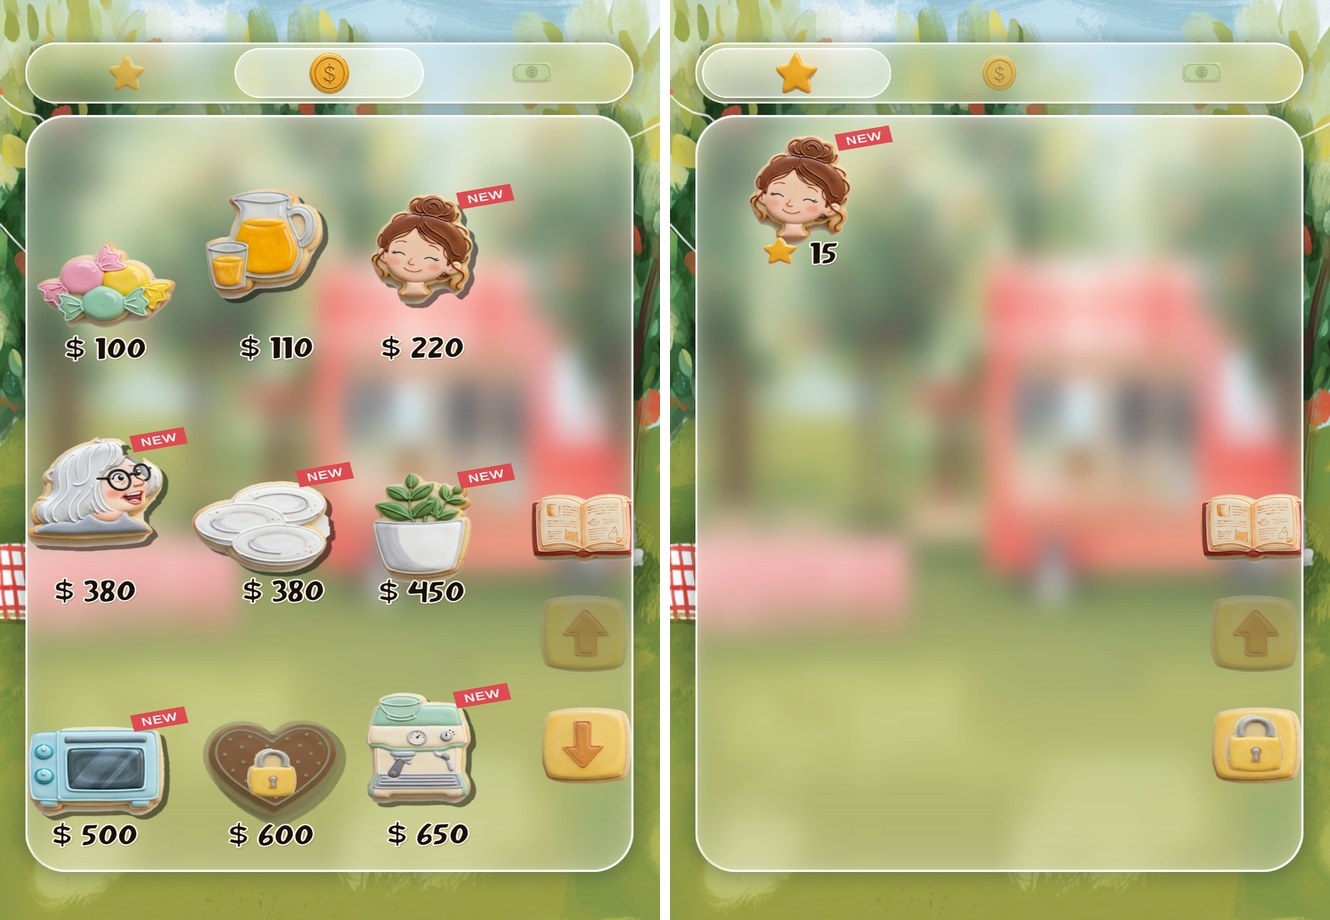
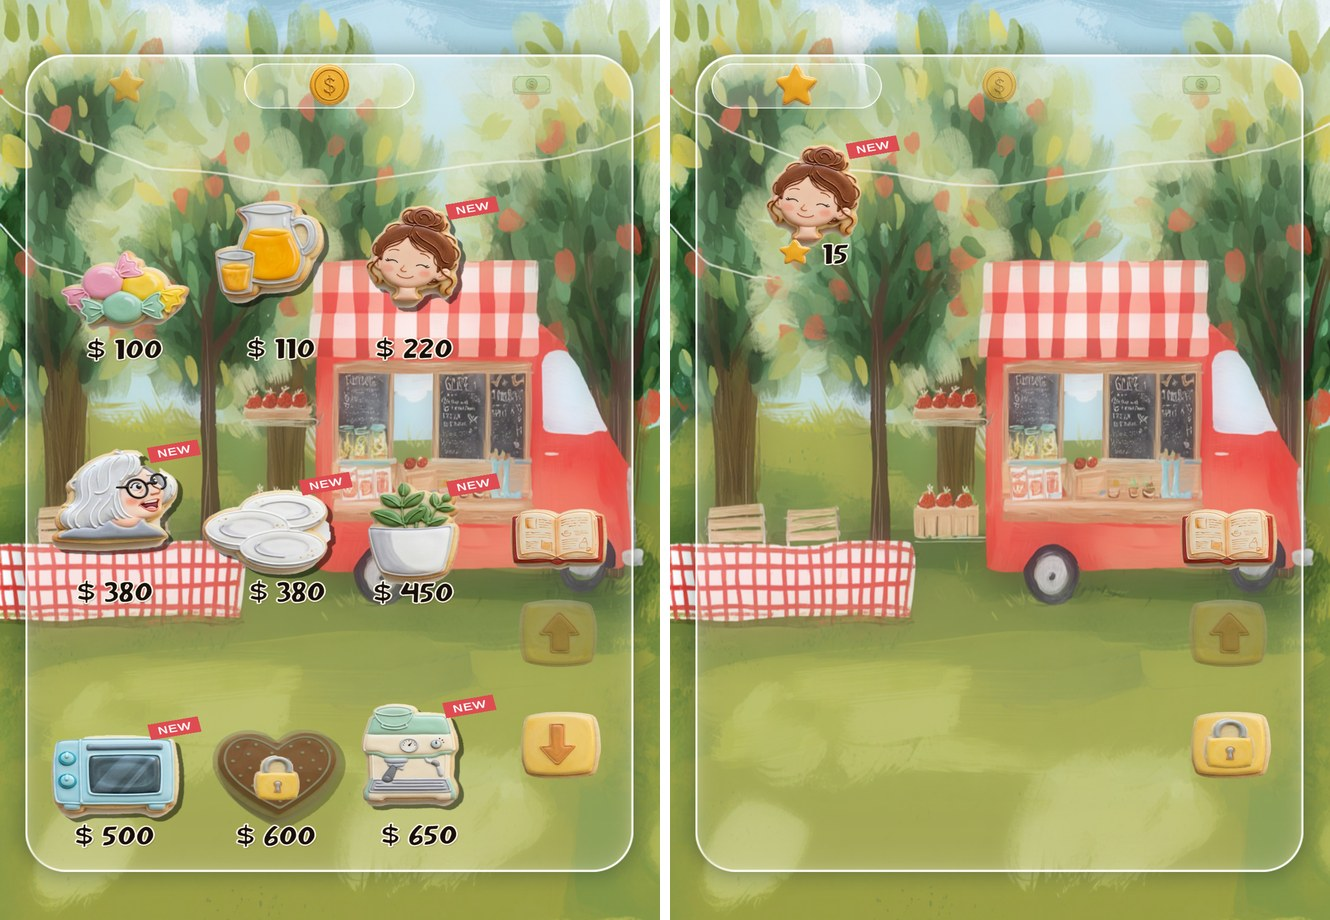
Shop glass: almost clear, one pane with the tabs inside it (no gap, no line), cards and arrows kept clear of the pane's edges (owner, 19 Nov); report

diff --git a/Docs/tools/report_page/index.html b/Docs/tools/report_page/index.html
@@ -74,7 +74,7 @@ h3 small{font-weight:600;color:var(--soft);font-size:13px;margin-left:6px}
 <h2 id="next"><span class="n">1</span>Next</h2>
 <div class="grid">
 <div class="who p1"><h3>You</h3>
-<p><b>Test build 2026.11.19 (1) is in TestFlight.</b> Four things came after it: the glass shop panel, the cake fix, the smaller Daily Treats button and its even dots. Say "build" for (2).</p>
+<p><b>Test build 2026.11.19 (1) is in TestFlight.</b> After it came: the glass shop panel, the cake fix, and the last Daily Treats change (approved). Say "build" for (2).</p>
 <p><b>Q&amp;A:</b> pick a handwriting font; the journal's milestones.</p>
 <p><b>MVP:</b> pick a mixer (three like your photo, cuter).</p>
 </div>
@@ -143,17 +143,17 @@ h3 small{font-weight:600;color:var(--soft);font-size:13px;margin-left:6px}
 <h2 id="current"><span class="n">3</span>Current</h2>
 <p class="sub" style="margin:0 0 8px">Release 1: the look. The first three cards are in the project but came after build (1).</p>
 <div class="card">
-<p style="margin-top:0"><b>Shop panel as liquid glass, rounded.</b> After build (1).</p>
-<figure><img src="shop_glass.jpg" alt="The shop twice. The panel is a rounded pane of frosted glass: the truck and trees behind it are blurred, a bright thin rim runs round it, the cookies and prices sit on it. Above it a long glass pill holds the three tab pictures, with a brighter rounded lens over the open one: the coin on the left picture, the star on the right picture"><figcaption>Left: the coins tab. Right: the stars tab; the lens slides to the tab you tap.</figcaption></figure>
+<p style="margin-top:0"><b>Shop panel: clear glass, one piece with the tabs, margins.</b> After build (1).</p>
+<figure><img src="shop_glass.jpg" alt="The shop twice. One rounded pane of almost clear glass with a thin bright rim: the truck and trees show through it nearly untouched. The three tab pictures sit inside the pane's top with no gap and no line under them; a faint rounded lens marks the open tab (the coin left, the star right). The cookies keep clear of the pane's left edge, and the book and arrows sit inside its right edge"><figcaption>Left: the coins tab. Right: the stars tab; the lens slides to the tab you tap.</figcaption></figure>
 <ul>
-<li>The shop's own background shows through, blurred, under a thin white veil; a bright rim and a soft shadow round the pane.</li>
-<li>The tabs are a glass pill above the pane instead of folder tabs.</li>
+<li><b>Glass:</b> almost fully see-through now; only the rim, a trace of white and a soft shadow say "glass".</li>
+<li><b>One piece:</b> the tabs are inside the same pane, no gap and no line between them and the cards.</li>
+<li><b>Margins:</b> the cards are a little smaller and moved in from the left edge; the book and the arrows are a little smaller and sit inside the right edge.</li>
 </ul>
 <ul class="checks">
-<li><label><input type="checkbox" data-id="cur.glass.good"> Good</label></li>
-<li><label><input type="checkbox" data-id="cur.glass.whiter"> More white in the glass (prices easier to read)</label></li>
-<li><label><input type="checkbox" data-id="cur.glass.clearer"> Less blur, clearer glass</label></li>
-<li><label><input type="checkbox" data-id="cur.glass.change"> Other changes (I will say what)</label></li>
+<li><label><input type="checkbox" data-id="cur.glass2.good"> Good</label></li>
+<li><label><input type="checkbox" data-id="cur.glass2.nolens"> No lens on the open tab</label></li>
+<li><label><input type="checkbox" data-id="cur.glass2.change"> Changes (I will say what)</label></li>
 </ul>
 </div>
 
@@ -171,15 +171,6 @@ h3 small{font-weight:600;color:var(--soft);font-size:13px;margin-left:6px}
 </div>
 
 <div class="card">
-<p style="margin-top:0"><b>Daily Treats: smaller button, even dots.</b> After build (1).</p>
-<figure><img src="treats_square.jpg" alt="Daily Treats three times: day 2 with a smaller Collect button and clear space between it and the bottom dotted line; after Collect with the coin, +50 and a smaller One more treat button; day 4 with the gift. The dotted lines have evenly spaced round dots with one dot exactly in each corner"><figcaption>Day 2; after Collect; day 4.</figcaption></figure>
-<ul>
-<li>Collect and One more treat are smaller and sit higher, clear of the bottom dotted line.</li>
-<li>Every dotted line is redrawn: evenly spaced round dots, one exactly in each corner (two dots overlapped there before).</li>
-</ul>
-</div>
-
-<div class="card">
 <p style="margin-top:0"><b>Day card and cookie book.</b> In build (1).</p>
 <figure><img src="daycard_square.jpg" style="max-height:440px" alt="The map's day card as a square cream doily card: Day 3, three stars, Play and Cancel"><figcaption>The map's day card, square.</figcaption></figure>
 <figure><img src="book_flip.jpg" alt="Six moments of the whole page turning in the red book: page 1 flat, the full page lifting at its right edge with a shadow, half way, page 2 showing under it"><figcaption>The cookie book: the whole page turns, with your sound 4. The book's button is the old one.</figcaption></figure>
@@ -193,7 +184,7 @@ h3 small{font-weight:600;color:var(--soft);font-size:13px;margin-left:6px}
 <div class="card">
 <p style="margin-top:0"><b>Build 2026.11.19 (1), the whole list</b> (since 2026.11.18, which is live).</p>
 <ul>
-<li><b>Paper:</b> Daily Treats (square mint card, four notes), the map's day card (doily), the cookie book as a red book with turning pages.</li>
+<li><b>Paper:</b> Daily Treats (square mint card, four notes: approved), the map's day card (doily), the cookie book as a red book with turning pages.</li>
 <li><b>Cookies:</b> One more treat, the shop's three tabs, the pull handles (chef's hat on the table, plate in the kitchen: approved).</li>
 <li><b>Shop:</b> 1 star for 999 coins; coffee machine upgrade 650; a crunch on the book's cookies.</li>
 <li><b>Tutorial and arranging:</b> the hand drags the real coffee machine and coffee bags; "drag to arrange" banner on day 2 only, low in the kitchen; NEW on the cups only for the cups; the table's handle movable at any time; the coffee bags glow while arranging.</li>

diff --git a/Assets/Scripts/Shop/ShopGlass.cs b/Assets/Scripts/Shop/ShopGlass.cs
@@ -2,27 +2,31 @@ using UnityEngine;
 using UnityEngine.UI;
 
 /// The shop's panel as liquid glass (owner, 19 November 2026: "change shop panel to liquid glass style, make the corners
-/// rounded"). The panel becomes a rounded pane: the shop's own background shows through it blurred, under a thin white
-/// veil, with a bright rim and a soft shadow round it. The tabs become a glass pill above the pane, with a brighter
-/// lens that slides to the open tab. Pieces: Store/ui/shop_glass_2026-11-19/glass.py (Resources/UI/glass_*). The
-/// panel's group is drawn squashed (scale 1 x 0.8), and the pieces are painted taller by the same amount, so the corners
-/// are round on screen. Without the pieces the shop keeps its flat panel and folder tabs.
+/// rounded"; then "the glass needs to be much more transparent, almost completely transparent, the tabs and the panel
+/// needs to be a whole without space without divider line"). One rounded pane of nearly clear glass holds the tab row
+/// and the cards: the shop's background shows through it almost untouched (a trace of blur and of white), with a bright
+/// rim and a soft shadow round it. A faint lens inside the pane slides to the open tab. Pieces:
+/// Store/ui/shop_glass_2026-11-19/glass.py (Resources/UI/glass_*). The panel's group is drawn squashed (scale 1 x 0.8),
+/// and the pieces are painted taller by the same amount, so the corners are round on screen. Without the pieces the
+/// shop keeps its flat panel and folder tabs.
 public static class ShopGlass
 {
-    public const float BarGap = 22f;      // between the pane's top and the tab pill, in the group's units
-    public const float BarHeight = 112f;  // the pill's height in the group's units (0.8 of that on screen)
+    public const float BarHeight = 112f;  // the tab row's height in the group's units (0.8 of that on screen)
     private const float CornerPx = 75f;   // the pieces' corner height in pixels (their top and bottom border)
+    private const float Haze = 0.30f;     // how much of the blurred background is laid over the sharp one
+    private const float Veil = 0.05f;     // white in the glass
 
     private static Sprite Piece(string name) => Resources.Load<Sprite>("UI/" + name);
     public static bool Ready => Piece("glass_fill") != null && Piece("glass_rim") != null;
 
     public class Parts
     {
-        public RectTransform bar, thumb;
-        public float barBottom;   // the pill's lower edge, measured from the group's middle
+        public RectTransform thumb;
+        public float barBottom;   // the tab row's lower edge (the cards' upper edge), measured from the group's middle
     }
 
-    /// Dresses the panel (the masked viewport inside its group) and builds the tab pill above it.
+    /// Dresses the panel (the masked viewport inside its group) as the lower part of one pane and lays the tab row in
+    /// the pane's top.
     public static Parts Build(RectTransform group, RectTransform viewport, Image panelImage)
     {
         var fill = Piece("glass_fill"); var rim = Piece("glass_rim"); var shadow = Piece("glass_shadow");
@@ -30,46 +34,38 @@ public static class ShopGlass
         var blurred = bg != null && bg.sprite != null ? Blur(bg.sprite.texture) : null;
         if (blurred != null) group.gameObject.AddComponent<GlassOwner>().texture = blurred;
         var w = group.rect.width; var h = group.rect.height;
+        var paneH = h + BarHeight; var paneY = BarHeight * 0.5f;   // the pane: the cards' window and the tab row above it
 
-        // the pane: the panel's own image is the rounded mask; behind the cards lie the blurred background, a veil of
-        // white and the light on its top
+        // the cards' window keeps its mask (rounded like the pane) and shows nothing of its own
         panelImage.sprite = fill; panelImage.type = Image.Type.Sliced; panelImage.pixelsPerUnitMultiplier = 1f;
         panelImage.color = new Color(1f, 1f, 1f, 0.02f);
-        var at = 0;
-        if (blurred != null) Backdrop(viewport, bg, blurred).SetSiblingIndex(at++);
-        var veil = NewImage("GlassVeil", viewport, null, new Color(1f, 1f, 1f, blurred != null ? 0.22f : 0.62f)); Stretch(veil.rectTransform); veil.transform.SetSiblingIndex(at++);
-        var sheenSprite = Piece("glass_sheen");
-        if (sheenSprite != null) { var sheen = NewImage("GlassSheen", viewport, sheenSprite, Color.white); Stretch(sheen.rectTransform); sheen.transform.SetSiblingIndex(at++); }
-        var paneRim = NewImage("GlassRim", group, rim, Color.white); paneRim.type = Image.Type.Sliced;
-        Box(paneRim.rectTransform, 0f, 0f, w, h); paneRim.transform.SetSiblingIndex(viewport.GetSiblingIndex() + 1);
 
-        // the tab pill: the same glass, its ends half circles
-        var parts = new Parts { barBottom = h * 0.5f + BarGap };
-        var barY = parts.barBottom + BarHeight * 0.5f; var barM = CornerPx / (BarHeight * 0.5f);
-        var bar = NewImage("GlassBar", group, fill, new Color(1f, 1f, 1f, 0.02f)); bar.type = Image.Type.Sliced; bar.pixelsPerUnitMultiplier = barM;
-        Box(bar.rectTransform, 0f, barY, w, BarHeight);
-        bar.gameObject.AddComponent<Mask>().showMaskGraphic = true;
-        if (blurred != null) Backdrop(bar.rectTransform, bg, blurred);
-        var barVeil = NewImage("GlassVeil", bar.rectTransform, null, new Color(1f, 1f, 1f, blurred != null ? 0.16f : 0.50f)); Stretch(barVeil.rectTransform);
-        parts.bar = bar.rectTransform;
-        var barRim = NewImage("GlassBarRim", group, rim, Color.white); barRim.type = Image.Type.Sliced; barRim.pixelsPerUnitMultiplier = barM;
-        Box(barRim.rectTransform, 0f, barY, w, BarHeight);
-        // the lens over the open tab
-        var thumbH = BarHeight - 20f; var thumbM = CornerPx / (thumbH * 0.5f);
-        var thumb = NewImage("GlassThumb", group, fill, new Color(1f, 1f, 1f, 0.46f)); thumb.type = Image.Type.Sliced; thumb.pixelsPerUnitMultiplier = thumbM;
-        Box(thumb.rectTransform, 0f, barY, 200f, thumbH);
-        var thumbRim = NewImage("Rim", thumb.rectTransform, rim, Color.white); thumbRim.type = Image.Type.Sliced; thumbRim.pixelsPerUnitMultiplier = thumbM; Stretch(thumbRim.rectTransform);
+        // the glass, behind the cards and the tabs: a trace of the blurred background, a trace of white, light on its top
+        var pane = NewImage("GlassPane", group, fill, new Color(1f, 1f, 1f, 0.02f)); pane.type = Image.Type.Sliced;
+        Box(pane.rectTransform, 0f, paneY, w, paneH);
+        pane.gameObject.AddComponent<Mask>().showMaskGraphic = true;
+        if (blurred != null) { var back = Backdrop(pane.rectTransform, bg, blurred).GetComponent<RawImage>(); var c = back.color; c.a = Haze; back.color = c; }
+        var veil = NewImage("GlassVeil", pane.rectTransform, null, new Color(1f, 1f, 1f, Veil)); Stretch(veil.rectTransform);
+        var sheenSprite = Piece("glass_sheen");
+        if (sheenSprite != null) { var sheen = NewImage("GlassSheen", pane.rectTransform, sheenSprite, new Color(1f, 1f, 1f, 0.45f)); Stretch(sheen.rectTransform); }
+        var paneRim = NewImage("GlassRim", group, rim, Color.white); paneRim.type = Image.Type.Sliced;
+        Box(paneRim.rectTransform, 0f, paneY, w, paneH); paneRim.transform.SetSiblingIndex(viewport.GetSiblingIndex() + 1);
+
+        // the lens over the open tab, inside the pane's top
+        var parts = new Parts { barBottom = h * 0.5f };
+        var thumbH = BarHeight - 28f; var thumbM = CornerPx / (thumbH * 0.5f);
+        var thumb = NewImage("GlassThumb", group, fill, new Color(1f, 1f, 1f, 0.20f)); thumb.type = Image.Type.Sliced; thumb.pixelsPerUnitMultiplier = thumbM;
+        Box(thumb.rectTransform, 0f, parts.barBottom + BarHeight * 0.5f - 2f, 200f, thumbH);
+        var thumbRim = NewImage("Rim", thumb.rectTransform, rim, new Color(1f, 1f, 1f, 0.9f)); thumbRim.type = Image.Type.Sliced; thumbRim.pixelsPerUnitMultiplier = thumbM; Stretch(thumbRim.rectTransform);
         thumb.gameObject.AddComponent<GlassThumb>();
         parts.thumb = thumb.rectTransform;
 
-        // back to front in the group: shadows, the pill, its rim, the lens, then the tabs, the pane and its rim
-        thumb.transform.SetAsFirstSibling(); barRim.transform.SetAsFirstSibling(); bar.transform.SetAsFirstSibling();
+        // back to front in the group: the shadow, the glass, the lens, then the cards' window, the rim and the tabs
+        thumb.transform.SetAsFirstSibling(); pane.transform.SetAsFirstSibling();
         if (shadow != null)
         {
-            var barShadow = NewImage("GlassBarShadow", group, shadow, Color.white); barShadow.type = Image.Type.Sliced; barShadow.pixelsPerUnitMultiplier = barM;
-            var pad = 40f / barM; Box(barShadow.rectTransform, 0f, barY, w + 2f * pad, BarHeight + 2f * pad / 0.8f); barShadow.transform.SetAsFirstSibling();
             var paneShadow = NewImage("GlassShadow", group, shadow, Color.white); paneShadow.type = Image.Type.Sliced;
-            Box(paneShadow.rectTransform, 0f, 0f, w + 80f, h + 100f); paneShadow.transform.SetAsFirstSibling();
+            Box(paneShadow.rectTransform, 0f, paneY, w + 80f, paneH + 100f); paneShadow.transform.SetAsFirstSibling();
         }
         return parts;
     }
@@ -78,7 +74,7 @@ public static class ShopGlass
     public static void MoveThumb(Parts parts, float x, float width)
     {
         if (parts == null || parts.thumb == null) return;
-        var t = parts.thumb.GetComponent<GlassThumb>(); if (t != null) t.Go(x, width - 20f);
+        var t = parts.thumb.GetComponent<GlassThumb>(); if (t != null) t.Go(x, width - 48f);
     }
 
     // ---- pieces ----

diff --git a/Assets/Scripts/Shop/ShopManager.cs b/Assets/Scripts/Shop/ShopManager.cs
@@ -606,6 +606,7 @@ public class ShopManager : MonoBehaviour
     private const int Columns = 3;
     private const float ColumnPitchMax = 245f;     // three columns left of the arrow buttons
     private const float RowPitchMax = 450f;        // three rows on a screen
+    private const float GlassCardShrink = 0.93f, GlassColumnPitchMax = 224f, GlassColumnsCentre = -136f;   // on the glass pane: 36 free at its left edge, the arrows 36 inside its right edge
     private const float ColumnsCentre = -143f;     // in the container's space: the usable width sits left of the arrows
 
     /// Sorts the cards cheap to expensive and lays them out in a grid, scaled down (owner, 16 October: "sort shop
@@ -636,7 +637,11 @@ public class ShopManager : MonoBehaviour
         foreach (var c in cards) { c.transform.localScale = Vector3.one; bounds.Add(VisualBounds((RectTransform)c.transform, cont)); }
         var maxW = 0f; var maxH = 0f;
         foreach (var b in bounds) { maxW = Mathf.Max(maxW, b.width); maxH = Mathf.Max(maxH, b.height); }
-        var colPitch = Mathf.Min(maxW * cardScale + 24f, ColumnPitchMax);
+        // on the glass pane the cards keep clear of its edges (owner, 19 November 2026: "resize or reposition the items so
+        // there is some margin between the edge of panel and items"): a little smaller, the columns closer, moved right
+        var cs = glass != null ? cardScale * GlassCardShrink : cardScale;
+        var colPitch = Mathf.Min(maxW * cs + 24f, glass != null ? GlassColumnPitchMax : ColumnPitchMax);
+        var colCentre = glass != null ? GlassColumnsCentre : ColumnsCentre;
         rowPitch = Mathf.Min(maxH * cardScale + 28f, RowPitchMax);   // the people cards' picture boxes are much taller than their figures
         // The visible window is the masked ShopPanel (the container's parent); the scene's ScrollRect sits on the
         // container itself with no viewport, so it is pointed at the panel too, which makes a finger drag work
@@ -650,15 +655,15 @@ public class ShopManager : MonoBehaviour
         for (var i = 0; i < cards.Count; i++)
         {
             var rt = (RectTransform)cards[i].transform;
-            var slot = new Vector2(ColumnsCentre + (i % Columns - 1) * colPitch, top - (i / Columns) * rowPitch);
+            var slot = new Vector2(colCentre + (i % Columns - 1) * colPitch, top - (i / Columns) * rowPitch);
             // sideways the visual centre goes on the slot; vertically the card's BOTTOM (its price line) goes on the row's
             // baseline, so every card in a row stands on the same line whatever its picture's height (owner, 26 October
             // 2026: the small plant floated above the plates and the oven once the price sort moved it into their row)
             var offset = bounds[i].center - (Vector2)rt.localPosition;
             var bottomOffset = bounds[i].yMin - rt.localPosition.y;
             var baseline = slot.y - rowPitch / 2f + 14f;
-            rt.localScale = Vector3.one * cardScale;
-            rt.localPosition = new Vector3(slot.x - offset.x * cardScale, baseline - bottomOffset * cardScale, rt.localPosition.z);
+            rt.localScale = Vector3.one * cs;
+            rt.localPosition = new Vector3(slot.x - offset.x * cs, baseline - bottomOffset * cs, rt.localPosition.z);
         }
         var span = Mathf.Max(0f, (contentH - viewH) / 2f);
         topBoundary = -span; bottomBoundary = span;
@@ -1302,6 +1307,16 @@ public class ShopManager : MonoBehaviour
         tabNote = ngo.GetComponent<TextMeshProUGUI>(); tabNote.fontSize = 44f; tabNote.alignment = TextAlignmentOptions.Center;
         tabNote.color = new Color(0.30f, 0.22f, 0.18f, 0.85f); if (font != null) tabNote.font = font; tabNote.text = ""; ngo.SetActive(false);
         if (ShopGlass.Ready && panelImage != null) glass = ShopGlass.Build(panelGroup, viewport, panelImage);
+        if (glass != null)
+        {
+            // the arrows (and the book above them, which takes its place and size from the up arrow) come in from the
+            // pane's right edge and are a little smaller
+            foreach (var b in new[] { scrollUpButton, scrollDownButton })
+            {
+                var art = b != null ? b.transform as RectTransform : null; if (art == null) continue;
+                art.sizeDelta *= 0.88f; art.anchoredPosition = new Vector2(viewport.rect.width * 0.5f - 44f - art.sizeDelta.x * 0.5f, art.anchoredPosition.y);
+            }
+        }
         if (glass != null) ngo.transform.SetAsLastSibling();
         PaintTabs();
         FitScoreAboveTabs();
